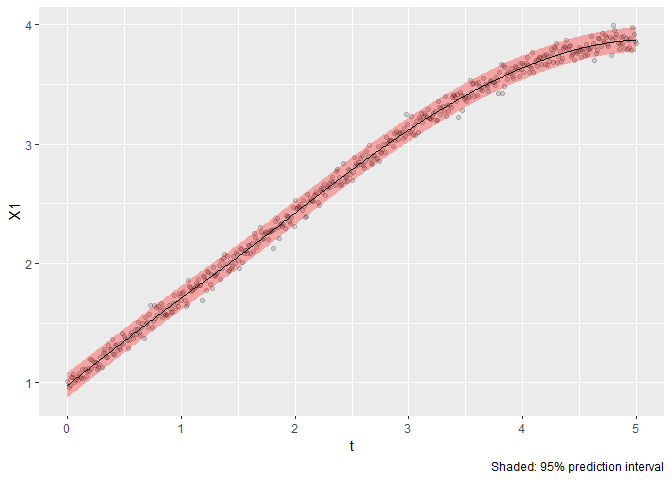
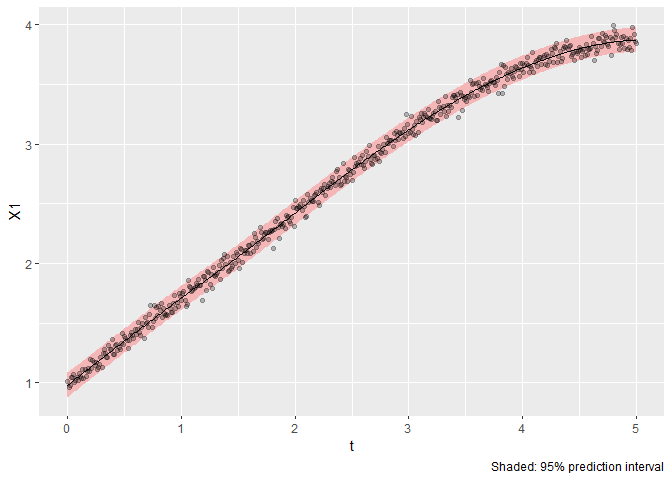
Replace path ellipses with a swept uncertainty tube
- Position plots in visualizeEstPath now draw the joint CL region at
  every plotted time as a solid light fill, forming a smooth tube with
  rounded ends around the path, instead of outlined ellipses at a few
  times. The n_ellipses argument is removed.
- Time-plot bands use the same fill, and intervals are drawn under the
  data and the path. Axis labels are set explicitly.
- The interval calculation is unchanged.
- README text and figures updated; tests check the region count, layer
  order and labels.

Changed region(s): [[0.0938, 0.0625, 0.9688, 0.8125]]

diff --git a/README.md b/README.md
@@ -48,7 +48,7 @@ baseVectorFields
 #>     f2 = c(curPos[1], curPos[2])/sqrt(sum(c(curPos[1], curPos[2])^2))
 #>     matrix(c(f1, f2), nrow = 2, byrow = F)
 #> }
-#> <bytecode: 0x00000225f3717ce8>
+#> <bytecode: 0x000001b589766508>
 #> <environment: namespace:VFmixing>
 ```
 
@@ -98,15 +98,15 @@ The run time, in seconds:
 ``` r
 PathTime
 #>    user  system elapsed 
-#>    0.25    0.04    0.29
+#>    0.18    0.08    0.32
 ```
 
 Because the “FullFours” path has a covariance structure, the plot can
 show its uncertainty. By default these are 95% prediction intervals for
 a new observation: the uncertainty in the fitted path plus the
 observation noise (`P_Int = FALSE` shows a confidence interval for the
-path itself instead). When both axes are positions, they are drawn as
-ellipses at evenly spaced times:
+path itself instead). When both axes are positions, the shaded tube is
+the joint 95% region for both coordinates, swept along the path:
 
 ``` r
 visualizeEstPath(Data = Data, EstPath = EstPath, t_grid_size = 0.01,
@@ -186,7 +186,7 @@ The run time, in seconds:
 ``` r
 TrajTime
 #>    user  system elapsed 
-#>   11.20    0.29   11.71
+#>   11.74    0.11   12.17
 ```
 
 By default, every candidate up to `nsplits` is fit before the best one
@@ -207,7 +207,7 @@ PatienceTime <- system.time(
 ``` r
 PatienceTime
 #>    user  system elapsed 
-#>    0.04    0.00    0.06
+#>    0.08    0.00    0.08
 
 # Same trajectory as the full search?
 isTRUE(all.equal(EstTrajPatience$Traj, EstTraj$Traj))
